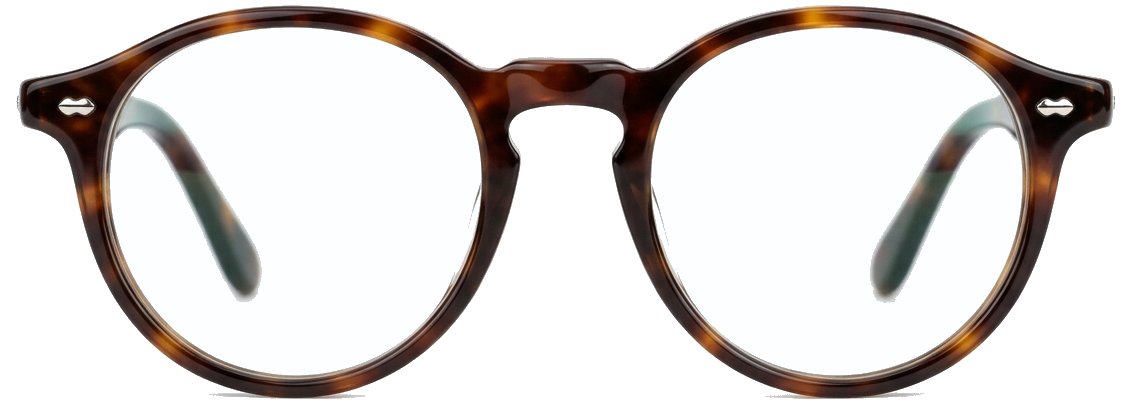
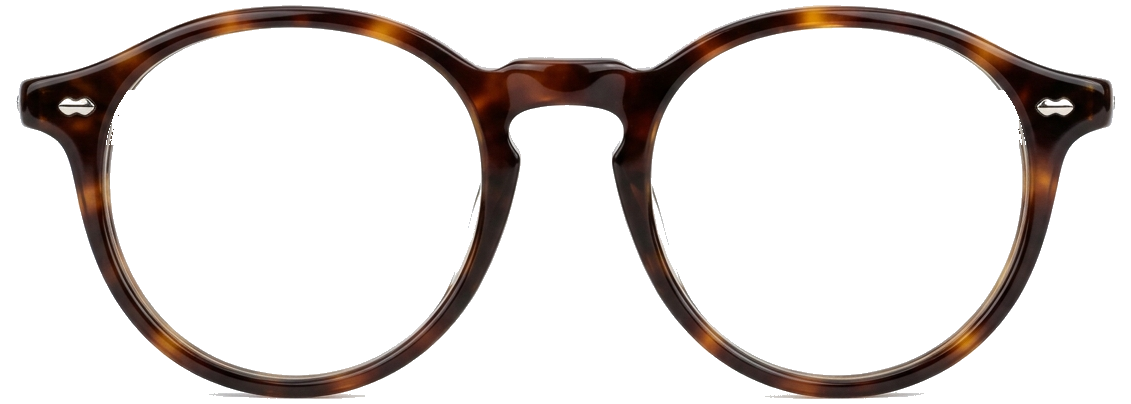
fix(tryon): clean lens cutout assets, add 3D temple ear arms, and fix strict TS types

Changed region(s): [[0.0928, 0.2376, 0.2476, 0.7426], [0.7427, 0.2376, 0.9284, 0.7426]]

diff --git a/frontend/src/components/common/VirtualTryOnModal.tsx b/frontend/src/components/common/VirtualTryOnModal.tsx
@@ -37,8 +37,8 @@ export type LensTint = "clear" | "dark" | "bluelight" | "sunset";
 export interface VirtualTryOnModalProps {
   open: boolean;
   onOpenChange: (open: boolean) => void;
-  initialProductId?: string;
-  allProducts?: Product[];
+  initialProductId?: string | undefined;
+  allProducts?: Product[] | undefined;
 }
 
 export function mapProductToShape(product: Product): FrameShape {
@@ -114,16 +114,16 @@ export function drawProceduralEyewear(
   ctx: CanvasRenderingContext2D,
   shape: FrameShape,
   options: {
-    x?: number;
-    y?: number;
-    width?: number;
-    roll?: number;
-    yaw?: number;
-    frameColor?: string;
-    tintMode?: LensTint;
-    drawTemples?: boolean;
-    imageElement?: HTMLImageElement | null;
-    mirrored?: boolean;
+    x?: number | undefined;
+    y?: number | undefined;
+    width?: number | undefined;
+    roll?: number | undefined;
+    yaw?: number | undefined;
+    frameColor?: string | undefined;
+    tintMode?: LensTint | undefined;
+    drawTemples?: boolean | undefined;
+    imageElement?: HTMLImageElement | null | undefined;
+    mirrored?: boolean | undefined;
   } = {}
 ) {
   const {
@@ -153,6 +153,79 @@ export function drawProceduralEyewear(
   // 1. Photographic Cutout Rendering (Studio Realism)
   if (imageElement && imageElement.complete && imageElement.naturalWidth > 0) {
     const imgH = (imageElement.naturalHeight / imageElement.naturalWidth) * width;
+
+    // Draw 3D Perspective Temple Arms behind the front frame (extending towards the ears)
+    if (drawTemples) {
+      const hingeY = -imgH * 0.05;
+      const leftHingeX = -width * 0.485;
+      const rightHingeX = width * 0.485;
+      const templeLength = width * 0.32;
+      const templeUp = width * 0.14;
+
+      const leftBackX = leftHingeX - templeLength * 0.12 - yaw * width * 0.22;
+      const leftBackY = hingeY - templeUp;
+      const rightBackX = rightHingeX + templeLength * 0.12 - yaw * width * 0.22;
+      const rightBackY = hingeY - templeUp;
+
+      ctx.save();
+      ctx.lineCap = "round";
+      ctx.lineJoin = "round";
+
+      // Left temple arm (receding towards left ear)
+      if (yaw < 0.5) {
+        ctx.beginPath();
+        ctx.moveTo(leftHingeX, hingeY);
+        ctx.quadraticCurveTo(
+          leftHingeX - 8 - yaw * 12,
+          hingeY - templeUp * 0.5,
+          leftBackX,
+          leftBackY
+        );
+        ctx.strokeStyle = frameColor;
+        ctx.lineWidth = Math.max(3, width * 0.016);
+        ctx.stroke();
+
+        ctx.beginPath();
+        ctx.moveTo(leftHingeX, hingeY + 1);
+        ctx.quadraticCurveTo(
+          leftHingeX - 8 - yaw * 12,
+          hingeY - templeUp * 0.5 + 1,
+          leftBackX,
+          leftBackY + 1
+        );
+        ctx.strokeStyle = "rgba(0, 0, 0, 0.35)";
+        ctx.lineWidth = Math.max(1.2, width * 0.007);
+        ctx.stroke();
+      }
+
+      // Right temple arm (receding towards right ear)
+      if (yaw > -0.5) {
+        ctx.beginPath();
+        ctx.moveTo(rightHingeX, hingeY);
+        ctx.quadraticCurveTo(
+          rightHingeX + 8 - yaw * 12,
+          hingeY - templeUp * 0.5,
+          rightBackX,
+          rightBackY
+        );
+        ctx.strokeStyle = frameColor;
+        ctx.lineWidth = Math.max(3, width * 0.016);
+        ctx.stroke();
+
+        ctx.beginPath();
+        ctx.moveTo(rightHingeX, hingeY + 1);
+        ctx.quadraticCurveTo(
+          rightHingeX + 8 - yaw * 12,
+          hingeY - templeUp * 0.5 + 1,
+          rightBackX,
+          rightBackY + 1
+        );
+        ctx.strokeStyle = "rgba(0, 0, 0, 0.35)";
+        ctx.lineWidth = Math.max(1.2, width * 0.007);
+        ctx.stroke();
+      }
+      ctx.restore();
+    }
 
     // Use offscreen canvas to isolate glasses pixels so tint only affects the frame, not the video
     const needsTint = tintMode === "bluelight" || tintMode === "sunset";
@@ -261,7 +334,7 @@ export function renderDemoPortrait(
     showMesh: boolean;
     scaleMultiplier: number;
     offsetY: number;
-    imageElement?: HTMLImageElement | null;
+    imageElement?: HTMLImageElement | null | undefined;
   }
 ) {
   ctx.clearRect(0, 0, width, height);
@@ -379,14 +452,15 @@ export function renderDemoPortrait(
   // Mesh Dots Overlay
   if (params.showMesh) {
     ctx.fillStyle = "rgba(217, 119, 6, 0.85)";
-    [
+    const meshPoints: [number, number][] = [
       [featureShiftX, eyeY],
       [-eyeSpacing * 1.35 + featureShiftX, eyeY],
       [eyeSpacing * 1.35 + featureShiftX, eyeY],
       [-headRadiusX * 0.92, eyeY],
       [headRadiusX * 0.92, eyeY],
       [featureShiftX, headRadiusY * 0.22],
-    ].forEach(([px, py]) => {
+    ];
+    meshPoints.forEach(([px, py]) => {
       ctx.beginPath();
       ctx.arc(px, py, 3.2, 0, Math.PI * 2);
       ctx.fill();
@@ -470,11 +544,11 @@ export function VirtualTryOnModal({
   const [selectedProduct, setSelectedProduct] = useState<Product>(() => {
     if (initialProductId) {
       const match = availableFrames.find(
-        (p) => p.id === initialProductId || p.slug === initialProductId || p.name.toLowerCase() === initialProductId.toLowerCase()
+        (p) => p.id === initialProductId || p.name.toLowerCase() === initialProductId.toLowerCase()
       );
       if (match) return match;
     }
-    return availableFrames[0] || PRODUCTS[0];
+    return (availableFrames[0] ?? PRODUCTS[0])!;
   });
 
   // Preload and Cache Photographic Frame Cutouts
@@ -522,7 +596,7 @@ export function VirtualTryOnModal({
   useEffect(() => {
     if (open && initialProductId) {
       const match = availableFrames.find(
-        (p) => p.id === initialProductId || p.slug === initialProductId || p.name.toLowerCase() === initialProductId.toLowerCase()
+        (p) => p.id === initialProductId || p.name.toLowerCase() === initialProductId.toLowerCase()
       );
       if (match) {
         setSelectedProduct(match);
@@ -1057,10 +1131,12 @@ export function VirtualTryOnModal({
             onMouseMove={(e) => handlePointerMove(e.clientX, e.clientY)}
             onMouseUp={handlePointerUp}
             onTouchStart={(e) => {
-              if (e.touches.length === 1) handlePointerDown(e.touches[0].clientX, e.touches[0].clientY);
+              const touch = e.touches[0];
+              if (e.touches.length === 1 && touch) handlePointerDown(touch.clientX, touch.clientY);
             }}
             onTouchMove={(e) => {
-              if (e.touches.length === 1) handlePointerMove(e.touches[0].clientX, e.touches[0].clientY);
+              const touch = e.touches[0];
+              if (e.touches.length === 1 && touch) handlePointerMove(touch.clientX, touch.clientY);
             }}
             onTouchEnd={handlePointerUp}
           >

diff --git a/frontend/src/components/pages/ShopPage.tsx b/frontend/src/components/pages/ShopPage.tsx
@@ -301,7 +301,7 @@ export function ShopPage() {
             variant="outline"
             onClick={() => {
               const frame = filteredProducts.find((p) => p.category === "eyeglasses" || p.category === "sunglasses") || productsList[0];
-              setTryOnProduct(frame);
+              setTryOnProduct(frame ?? null);
             }}
             className="rounded-full shrink-0 h-7 text-xs px-3 gap-1.5 border-amber-500/40 text-amber-500 hover:bg-amber-500/10 font-semibold"
             title="Open 3D Virtual Try-On Studio"

diff --git a/frontend/src/components/pages/HomePage.tsx b/frontend/src/components/pages/HomePage.tsx
@@ -282,7 +282,7 @@ export function HomePage() {
                   variant="hero"
                   size="lg"
                   onClick={() => {
-                    setTryOnProduct(PRODUCTS[0]);
+                    setTryOnProduct(PRODUCTS[0] ?? null);
                     setTryOnOpen(true);
                   }}
                   className="flex-1 sm:flex-initial h-11 text-xs sm:text-sm font-semibold rounded-md bg-amber-500 hover:bg-amber-400 text-black border-none gap-2 shadow-md active:scale-95 transition-all cursor-pointer"

diff --git a/frontend/src/components/common/TryOnDialog.tsx b/frontend/src/components/common/TryOnDialog.tsx
@@ -4,10 +4,10 @@ import { PRODUCTS, type Product } from "@/data/catalog";
 export interface TryOnDialogProps {
   open: boolean;
   onOpenChange: (open: boolean) => void;
-  productName?: string;
-  initialProductId?: string;
-  product?: Product | null;
-  allProducts?: Product[];
+  productName?: string | undefined;
+  initialProductId?: string | undefined;
+  product?: Product | null | undefined;
+  allProducts?: Product[] | undefined;
 }
 
 export function TryOnDialog({

diff --git a/frontend/src/components/pages/TryOnPage.tsx b/frontend/src/components/pages/TryOnPage.tsx
@@ -40,7 +40,7 @@ export function TryOnPage() {
     if (product) {
       setSelectedProduct(product);
     } else {
-      setSelectedProduct(filteredFrames[0] || frames[0]);
+      setSelectedProduct(filteredFrames[0] ?? frames[0] ?? null);
     }
     setModalOpen(true);
   };
